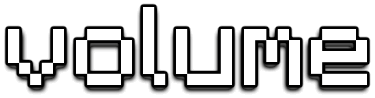
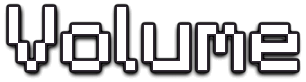
Redone settings text & added window size to main

diff --git a/Whos_Rem/main/settings.py b/Whos_Rem/main/settings.py
@@ -32,6 +32,50 @@ class Settings(arcade.View):
     return_button = Button(width*0.03, height*0.86, width*0.09, height*0.08,
                            activation=lambda: None, draw_func=lambda: None, name="menu button")
 
+    settings_title = arcade.Sprite(
+        filename=Path().cwd() / Path("main/Resources/settings_menu/settings-title.png"),
+        scale=int(min(width, height) * 0.2) / 128,
+        center_x=int(width * 0.5),
+        center_y=int(height * 0.87),
+    )
+    brightness_text = arcade.Sprite(
+        filename=Path().cwd() / Path("main/Resources/settings_menu/brightness.png"),
+        scale=int(min(width, height) * 0.1) / 128,
+        center_x=int(width * 0.8),
+        center_y=int(height * 0.56),
+    )
+    volume_text = arcade.Sprite(
+        filename=Path().cwd() / Path("main/Resources/settings_menu/volume.png"),
+        scale=int(min(width, height) * 0.14) / 128,
+        center_x=int(width * 0.8),
+        center_y=int(height * 0.68),
+    )
+
+    left_text = arcade.Sprite(
+        filename=Path().cwd() / Path("main/Resources/settings_menu/Left.png"),
+        scale=int(min(width, height) * 0.15) / 128,
+        center_x=int(width * 0.23),
+        center_y=int(height * 0.25),
+    )
+    center_text = arcade.Sprite(
+        filename=Path().cwd() / Path("main/Resources/settings_menu/Center.png"),
+        scale=int(min(width, height) * 0.15) / 128,
+        center_x=int(width * 0.51),
+        center_y=int(height * 0.25),
+    )
+    right_text = arcade.Sprite(
+        filename=Path().cwd() / Path("main/Resources/settings_menu/Right.png"),
+        scale=int(min(width, height) * 0.15) / 128,
+        center_x=int(width * 0.78),
+        center_y=int(height * 0.25),
+    )
+    key_binds_text = arcade.Sprite(
+        filename=Path().cwd() / Path("main/Resources/settings_menu/Key-Binds.png"),
+        scale=int(min(width, height) * 0.17) / 128,
+        center_x=int(width * 0.5),
+        center_y=int(height * 0.47),
+    )
+
     binding_key = None
     key_binds = {"left": arcade.key.A, "center": arcade.key.S, "right": arcade.key.D}
 
@@ -90,18 +134,27 @@ class Settings(arcade.View):
         self.binding_key = binding_key
 
     def draw_text(self):
-        arcade.draw_text("SETTINGS", self.width * 0.2, self.height * 0.8,
-                         cb.brightness([255, 255, 255], self.brightness),
-                         min(self.width, self.height) / 8, align="center",
-                         width=int(self.width * 0.6))
-        arcade.draw_text("BRIGHTNESS", self.width * 0.5, self.height * 0.52,
-                         cb.brightness([255, 255, 255], self.brightness),
-                         min(self.width, self.height) / 12, align="center",
-                         width=int(self.width * 0.6))
-        arcade.draw_text("VOLUME", self.width * 0.5, self.height * 0.65,
-                         cb.brightness([255, 255, 255], self.brightness),
-                         min(self.width, self.height) / 12, align="center",
-                         width=int(self.width * 0.6))
+        alpha = int(255 * self.main.brightness)
+        self.settings_title.alpha = alpha
+        self.settings_title.draw()
+
+        self.brightness_text.alpha = alpha
+        self.brightness_text.draw()
+
+        self.volume_text.alpha = alpha
+        self.volume_text.draw()
+
+        self.left_text.alpha = alpha
+        self.left_text.draw()
+
+        self.center_text.alpha = alpha
+        self.center_text.draw()
+
+        self.right_text.alpha = alpha
+        self.right_text.draw()
+
+        self.key_binds_text.alpha = alpha
+        self.key_binds_text.draw()
 
         arcade.draw_text(chr(self.key_binds["left"]).upper(),
                          self.width * 0.178, self.height * 0.105,
@@ -118,24 +171,6 @@ class Settings(arcade.View):
                          cb.brightness([0, 0, 0], self.brightness),
                          min(self.width, self.height) / 16, align="center",
                          width=int(self.width * 0.1))
-
-        arcade.draw_text("LEFT", self.width * 0.103, self.height * 0.2,
-                         cb.brightness([255, 255, 255], self.brightness),
-                         min(self.width, self.height) / 16, align="center",
-                         width=int(self.width * 0.25))
-        arcade.draw_text("CENTER", self.width * 0.378, self.height * 0.2,
-                         cb.brightness([255, 255, 255], self.brightness),
-                         min(self.width, self.height) / 16, align="center",
-                         width=int(self.width * 0.25))
-        arcade.draw_text("RIGHT", self.width * 0.653, self.height * 0.2,
-                         cb.brightness([255, 255, 255], self.brightness),
-                         min(self.width, self.height) / 16, align="center",
-                         width=int(self.width * 0.25))
-
-        arcade.draw_text("KEY BINDS", self.width * 0.3, self.height * 0.38,
-                         cb.brightness([255, 255, 255], self.brightness),
-                         min(self.width, self.height) / 12, align="center",
-                         width=int(self.width * 0.4))
 
         arcade.draw_text("Press the button of the input channel you want to assign a new button too,\n"
                          " then press the key you want that input to be assigned to",

diff --git a/Whos_Rem/main_game.py b/Whos_Rem/main_game.py
@@ -1,14 +1,17 @@
 import arcade
+import pyautogui
 from main import *
 
 
 class Main:
 
+    size = pyautogui.size()
+
     def __init__(self):
         self.settings = Settings(self)
         self.menu = MainMenu(self)
         self.song_selection = SongSelection(self)
-        self.window = arcade.Window(self.menu.width, self.menu.height,
+        self.window = arcade.Window(self.width, self.height,
                                     title="3 Strings", fullscreen=True, update_rate=1/60)
 
     @property
@@ -18,6 +21,14 @@ class Main:
     @property
     def volume(self):
         return self.settings.volume
+
+    @property
+    def width(self):
+        return self.size[0]
+
+    @property
+    def height(self):
+        return self.size[1]
 
 
 if __name__ == "__main__":
